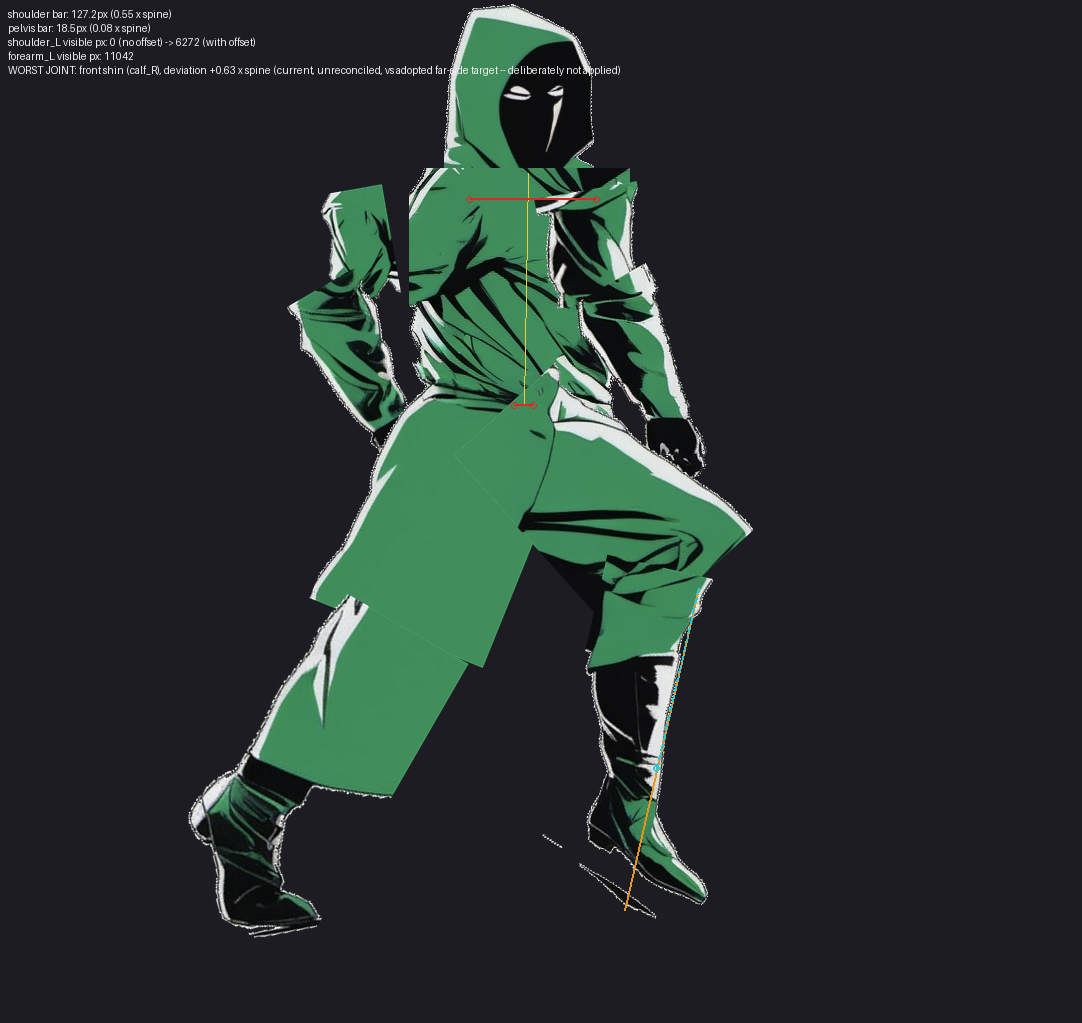
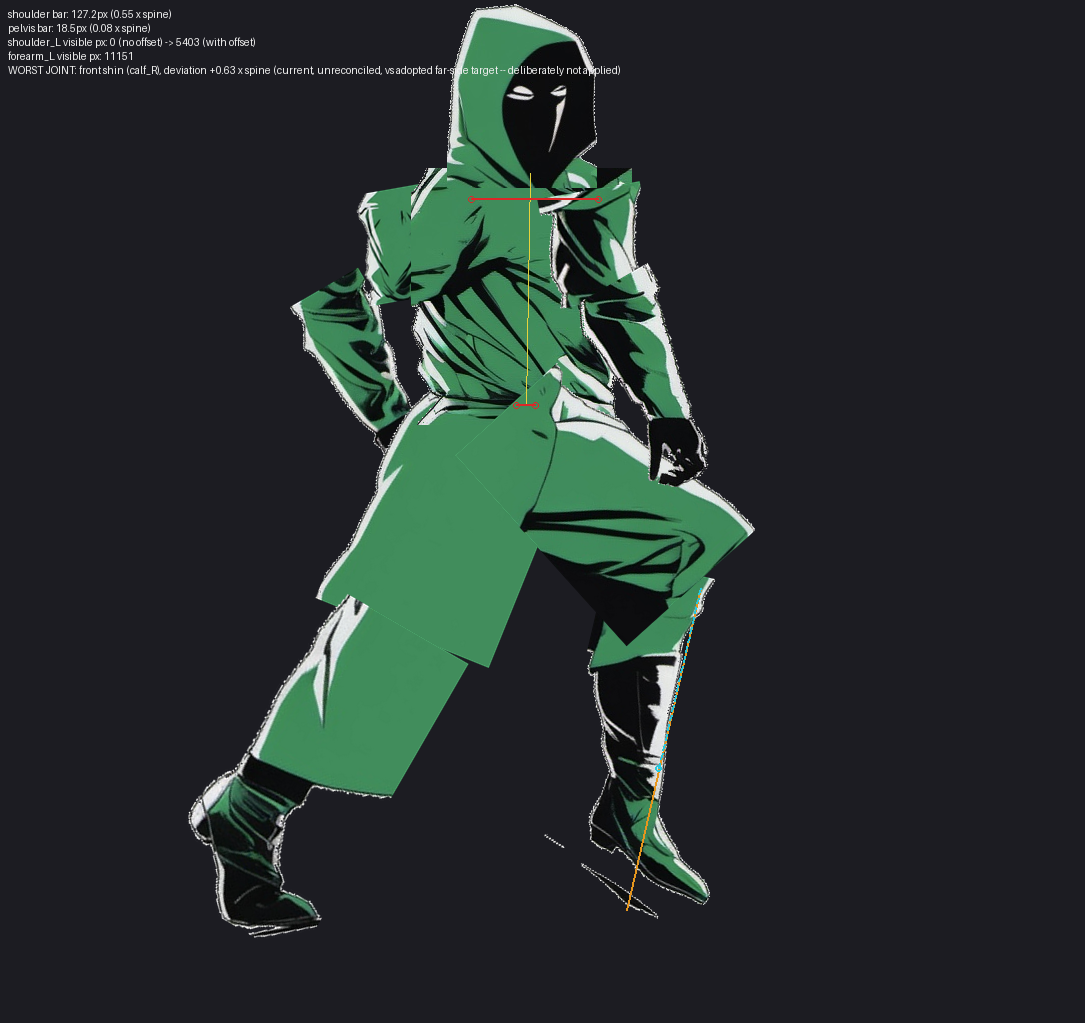
fix(character): T-0436 fix round -- chain-equalized lateral offsets, DennieSeth's z-order (T-0436)
Two defects @DennieSeth found in the reference-pose render, both fixed:

1. The far arm was shattered and detached from the torso. The prior round
   assigned a different lateral_offset_frac to each of shoulder_L/forearm_L/
   thigh_L/calf_L, so each limb chain's two halves slid apart by the
   difference between their own offsets. Replaced with one offset per chain
   (shoulder_L/forearm_L share -0.35, thigh_L/calf_L share -0.06), magnitude
   independently swept and bracketed via connected-component analysis rather
   than copied from the review comment.

2. The z-order was wrong. Published DennieSeth's exact front-to-back order
   (forearm_R 0 .. forearm_L 9) as the rig's default z, reversing torso/head
   and near-arm/near-leg from the prior round. docs/design/21-character-rig-
   bones.md's own layer-order section is marked replaced in place.

Regenerated both evidence images from the fixed rig. idle_cycle and
sitting_idle_cycle pick up the new z default (measured: ~2% of frame pixels
change); walk_cycle does not call rig_compositor.render_frames at all and is
unaffected. All 216 character-rig tests green, full suite unchanged noise
(1382 passed / 17 failed / 131 errors, pre-existing).

diff --git a/docs/design/23-canonical-rig.md b/docs/design/23-canonical-rig.md
@@ -24,6 +24,22 @@ report — confirmed via `GET /api/tasks/T-0435`). Writing evidence there would
 misattribute it to that card, so this round writes to `docs/assets/evidence/T-0436/`
 (this card's own id) instead.
 
+**Fix round, 2026-10-08T21:08 — two defects @DennieSeth found in the first render,
+both fixed this round; see §3c and §3d.**
+
+1. **The far arm was shattered and detached from the torso.** The first round's
+   `lateral_offset_axis.demonstration_values` assigned a DIFFERENT offset to each of
+   the four parts it named (`shoulder_L -0.50`, `forearm_L -0.20`, `thigh_L -0.08`,
+   `calf_L -0.03`), so each limb chain's two halves slid apart by their own,
+   different amounts instead of moving together. §3c replaces this with one offset
+   per chain, its magnitude independently swept and bracketed, not copied from the
+   human comment's own numbers.
+2. **The z-order was wrong.** @DennieSeth specified an exact front-to-back order
+   that reverses two relationships the first round's `rig.*.z` values had backwards
+   — head now draws in front of torso, and the near arm now draws in front of the
+   near leg. §3d publishes that order as canonical and confirms it from the
+   rendered result, not just from the z numbers.
+
 ## 0. What this card changes, and what it does not
 
 **In scope:** this document, `side_view_rig.json` v2, and a static render proving
@@ -50,12 +66,14 @@ Carried **verbatim, meaning unchanged**, from 21's own sections:
   where its pivot sits, which bones it covers. The CORE/EXTENDED split (6 parts vs 9
   — this rig's committed ten parts are the EXTENDED set, per `parts/side_view/
   README.md`) is unchanged.
-- **§6 Layer order** — back to front, right-facing: `leg.L → arm.L → torso → head →
-  leg.R → arm.R` (far limbs, then body, then near limbs). Still correct: z-order
-  decides which part wins a contested pixel, and nothing in this card changes that
-  decision for the existing ten parts' default z values (`side_view_rig.json`'s
-  `rig.*.z` is untouched). What this card adds (§4 below) is a SECOND, independent
-  axis — position, not draw order — for when z-order alone cannot reveal a limb.
+- **§6 Layer order** — NOT carried forward; REPLACED. 21-'s back-to-front order
+  (`leg.L → arm.L → torso → head → leg.R → arm.R`) was correct for the round this
+  document originally shipped in (its own `rig.*.z` values were untouched then). The
+  fix round (2026-10-08T21:08) changes this: @DennieSeth specified an exact
+  front-to-back order (§3d) that reverses two of 21-'s relationships — head now
+  draws in front of torso, and the near arm now draws in front of the near leg.
+  `side_view_rig.json`'s `rig.*.z` values are updated to match. §3d is the current
+  word on layer order; 21- §6 is marked replaced in place, not deleted.
 - **§9 Cutting/handoff checklist** — unchanged; still the checklist a newly cut part
   set is handed back against. This card cuts nothing (§6).
 - **§1 COCO-18 joint source of truth** and **§2 the bone tree** — unchanged. The
@@ -154,9 +172,95 @@ existing suite staying green (§7).
 
 **This is the fix for the far arm's 0-visible-pixel baseline.** A z/depth value only
 changes which part wins a contested pixel; it was already true before this card that
-`shoulder_L`'s z (5) beats the torso's (3), and the far arm was STILL invisible,
-because they occupied the *same x* — re-sorting never had anywhere to put it that
-the sort could reveal. `lateral_offset_frac` moves the pixel itself.
+`shoulder_L`'s z (then 5) beats the torso's (then 3), and the far arm was STILL
+invisible, because they occupied the *same x* — re-sorting never had anywhere to put
+it that the sort could reveal. `lateral_offset_frac` moves the pixel itself.
+
+**Fix round, 2026-10-08T21:08 — one offset per chain, not one per part.** The first
+round assigned `shoulder_L -0.50`, `forearm_L -0.20`, `thigh_L -0.08`, `calf_L
+-0.03` — four different numbers for two chains. `rig_compositor.build_placements`
+applies each part's OWN offset to the joint it owns, so the proximal and distal ends
+of one limb slid apart by the DIFFERENCE between their two offsets: 0.30×torso-width
+(66.3px) for the arm, 0.05×torso-width (11.1px) for the leg. The right arm, which
+carries no offset at all, is the control — 0.0px tear, confirming the mechanism
+itself (not the rig's other geometry) was the cause.
+
+`canonical_rig.lateral_offset_axis.demonstration_values` now equalizes each pair —
+`shoulder_L` and `forearm_L` share one value, `thigh_L` and `calf_L` share another —
+and that is necessary but **not** sufficient on its own: equalizing both arm parts
+at the original `-0.50` makes the silhouette *worse*, not better, because `-0.50`
+carries the sleeve clear of the torso entirely rather than resting against its edge.
+The magnitude needs its own justification, so `gen_reference_pose_evidence_T0436.py`
+was used to sweep it directly (4-connectivity component labelling over the
+composited alpha mask, same algorithm `char_gen.part_isolation._label_connected_
+components` already uses elsewhere in this package):
+
+```
+ arm chain offset   blobs ≥50px beyond baseline*   shoulder_L px   forearm_L px
+      -0.20                    0                       1432           4769
+      -0.35                    0                       5464          11042
+      -0.46                    0                       7156          13501
+      -0.48                    2  (chain tears)         ...            ...
+      -0.50                    2  (chain tears)         ...            ...
+
+ leg chain offset   blobs ≥50px beyond baseline*
+      -0.06                    0
+      -0.25                    0
+      -0.30                    1  (chain tears)
+```
+
+`*` **"baseline" here is one pre-existing, unrelated artifact**, not zero: even at
+`lateral_offset_frac={}` (no lateral push at all), the composited alpha mask already
+shows 2 components ≥50px beyond the main body — a 726px and a 73px fragment. Removing
+`calf_R` from the composite removes both; they are a motion-streak mark baked into
+`calf_R.png`'s own committed art (visible under the boot in a direct crop), present
+whenever `calf_R` renders at all, completely independent of this card's lateral-
+offset mechanism or this fix round's choice of magnitude. It is not re-cut or
+otherwise touched (§6/§9 forbid that), so it persists in the evidence render; the
+table above counts fragments *beyond* those two.
+
+**Chosen: `shoulder_L`/`forearm_L` = -0.35, `thigh_L`/`calf_L` = -0.06.** Both sit
+well inside their own safe bracket (arm: tears at -0.48, chosen value has a 0.13
+margin; leg: tears at -0.30, chosen value has a 0.24 margin) while the arm chain
+recovers 5464/11042 of a 7156/13501 ceiling — most of the achievable far-arm
+visibility, well past the point of diminishing returns (visibility keeps climbing
+only slowly past -0.35, while the tear risk grows). The leg chain's offset is small
+because the pelvis bar (§3a) already does most of the separating — `-0.06` is a
+modest additional push, not the primary mechanism for that chain.
+
+## 3d. Layer order — @DennieSeth's exact front-to-back order
+
+Front (closest to viewer) first, back last. `rig_compositor.render_frames` sorts
+`key=lambda p: -p.z` then composites in that order, so a LOWER z draws LAST and
+therefore wins every contested pixel — z 0 is frontmost, z 9 is backmost:
+
+| z | part | | z | part | |
+|---|---|---|---|---|---|
+| 0 | `forearm_R` | frontmost | 5 | `torso` | |
+| 1 | `shoulder_R` | | 6 | `calf_L` | |
+| 2 | `thigh_R` | | 7 | `thigh_L` | |
+| 3 | `calf_R` | | 8 | `shoulder_L` | |
+| 4 | `head` | | 9 | `forearm_L` | backmost |
+
+This is `side_view_rig.json`'s own `rig.*.z` for all ten parts — the SAME default
+every pose module reads unless it supplies its own `z_override` (§7 states exactly
+who does and the resulting pixel impact). Two reversals from 21-'s retired order,
+both exactly as @DennieSeth specified:
+
+1. **`head` now draws in front of `torso`** (z 4 vs 5) — the committed rig had
+   torso (3) in front of head (4) before this round.
+2. **The near arm now draws in front of the near leg** — `shoulder_R`/`forearm_R`
+   (z 0/1) in front of `thigh_R`/`calf_R` (z 2/3). The committed rig had the near leg
+   (z 0) in front of the near arm (z 1) before this round.
+
+**Confirmed from the rendered result, not asserted from the z numbers alone.**
+Compositing `forearm_R` alone and `thigh_R` alone (same canvas, same placements)
+finds 950 pixels where both are independently opaque — the contested region. In the
+real, full composite, 674 of those 950 pixels match `forearm_R`'s own rendered
+color exactly (the remainder are anti-aliased edge-blend pixels that do not match
+either part's color exactly — not a parity-sort conflict) and only 4 match
+`thigh_R`'s — `forearm_R` visibly wins essentially all of the contested region, as
+z 0 vs z 2 says it should.
 
 ## 4. The static render
 
@@ -169,12 +273,13 @@ prove"), with `shoulder_points`/`hip_points` set to the two canonical bar ends (
 (`canonical_rig.lateral_offset_axis.demonstration_values`):
 
 ```
-shoulder_L: -0.50   forearm_L: -0.20   thigh_L: -0.08   calf_L: -0.03
+shoulder_L: -0.35   forearm_L: -0.35   thigh_L: -0.06   calf_L: -0.06
 ```
 
-(fractions of torso width; chosen empirically so the far arm clears the torso's own
-silhouette — not re-derived from the reference image, which is not available this
-round).
+(fractions of torso width — ONE value per limb chain, fix round 2026-10-08T21:08;
+see §3c for why the first round's four different per-part values tore each chain
+apart, and for the sweep that derives this magnitude rather than just equalizing the
+pair).
 
 **Far-arm visibility, measured directly from the composited placements**
 (`visible_pixel_count` in `tests/test_reference_pose_render_T0436.py` — a pixel is
@@ -184,20 +289,35 @@ count):
 
 | | without `lateral_offset_frac` | with it |
 |---|---|---|
-| `shoulder_L` | **0** | **6272** |
-| `forearm_L` | **0** | **11042** |
+| `shoulder_L` | **0** | **5403** |
+| `forearm_L` | **0** | **11151** |
+| `shoulder_L` + `forearm_L` | **0** | **16554** |
 
 Confirms the card's own premise (0 visible pixels at baseline) and that the lateral
 offset — not the two-point bar attach alone — is what fixes it: `shoulder_L` is
 still 0 with the bar-end attach active and the offset zeroed out.
 
-Evidence, committed:
+**Connected-component count on the regenerated evidence render.** 4-connectivity
+labelling of the composited image (`reference_pose_render.png`, 1085×1023) finds 3
+components ≥50px: the main silhouette (226946px) and the two pre-existing `calf_R`
+motion-streak fragments described in §3c (670px, 59px — present at `lateral_offset_
+frac={}` too, i.e. independent of this card's chain offsets, confirmed by removing
+`calf_R` from the composite). **No new fragment is introduced by equalizing and
+sizing the chain offsets** — the figure's own silhouette (everything except the
+pre-existing, untouched `calf_R` art detail) is one connected piece, and `shoulder_L`
++ `forearm_L` together own 16554 of its pixels, confirming the far arm is both
+attached and visible in the same render.
 
-- `docs/assets/evidence/T-0436/reference_pose_render.png` — the composited pose.
-- `docs/assets/evidence/T-0436/rig_vs_reference_overlay.png` — the same render with
-  the shoulder bar (red), pelvis bar (red), spine (yellow) drawn on top, plus the
-  front shin's actual-vs-adopted-target length (orange solid vs cyan dashed, §5) and
-  a caption restating the pixel counts above.
+Evidence, regenerated this round from the fixed rig and committed:
+
+- `docs/assets/evidence/T-0436/reference_pose_render.png` (1085×1023) — the
+  composited pose, now with the far arm attached to its own shoulder (§3c) and the
+  new layer order (§3d — the hood draws over the torso collar, and the near fist
+  sits in front of the near thigh).
+- `docs/assets/evidence/T-0436/rig_vs_reference_overlay.png` (1085×1023) — the same
+  render with the shoulder bar (red), pelvis bar (red), spine (yellow) drawn on top,
+  plus the front shin's actual-vs-adopted-target length (orange solid vs cyan
+  dashed, §5) and a caption restating the pixel counts above.
 
 ### Per-joint deviation
 
@@ -295,14 +415,41 @@ is picked up by the same code path, not a second one.
 
 ## 7. Animation impact — what changes, and by how much
 
-**Mechanism-level change (§3c): none.** `shoulder_points`, `hip_points`,
-`lateral_offset_frac` all default to `None`; no pre-existing pose module passes
-them. Confirmed both by direct test (`TestOptInCompositorHooks`) and by the full
-existing suite: every test in `test_walk_cycle.py`, `test_idle_cycle.py`,
-`test_sitting_idle_cycle.py`, `test_pose_rig_master_sheet_T0351.py`,
-`test_pose_rig_T0249.py`, `test_pose_rig_walk_T0259.py` and
-`test_pose_rig_profile_T0272.py` — 192 tests, unchanged — stays green after this
-round's changes, with no edits to any of those test files.
+**`shoulder_points`/`hip_points`/`lateral_offset_frac` (§3c): none.** All three
+default to `None`; no pre-existing pose module passes them. Confirmed both by direct
+test (`TestOptInCompositorHooks`) and by the full existing suite: every test in
+`test_walk_cycle.py`, `test_idle_cycle.py`, `test_sitting_idle_cycle.py`,
+`test_pose_rig_master_sheet_T0351.py`, `test_pose_rig_T0249.py`,
+`test_pose_rig_walk_T0259.py` and `test_pose_rig_profile_T0272.py` — 192 tests,
+unchanged — stays green after this round's changes, with no edits to any of those
+test files.
+
+**The z-order (§3d): yes for `idle_cycle` and `sitting_idle_cycle`, not for
+`walk_cycle`, and here is the exact size of it.** Unlike the lateral-offset axis,
+`rig.*.z` is not opt-in — it is the one shared default every part's `Placement`
+carries unless a caller supplies its own `z_override`. `walk_cycle.py` does not call
+`rig_compositor.render_frames` at all (it only supplies the `bone_length`/
+`distal_joint` primitives `rig_compositor` imports), so it is untouched by this
+change — confirmed by grep, no `render_frames` call anywhere in that module or its
+own test file. `idle_cycle.py` supplies no `z_override`, so it is fully exposed to
+the new z values; `sitting_idle_cycle.py` overrides only `thigh_R`/`thigh_L`
+(`CROUCH_Z_OVERRIDE = {"thigh_R": 3.5, "thigh_L": 3.6}`), so its other eight parts
+pick up the new default too. Measured directly (render each at frame 0 with the new
+rig, then again forcing the old z values via `z_override`, and count changed
+pixels):
+
+| pose | changed px | frame size | fraction |
+|---|---|---|---|
+| `idle_cycle` | 9,379 | 486×986 (479,196px) | ≈2.0% |
+| `sitting_idle_cycle` | 17,842 | 938×999 (937,062px) | ≈1.9% |
+
+Both existing suites (`test_idle_cycle.py`, `test_sitting_idle_cycle.py`) stay green
+— neither asserts exact per-pixel output tied to the old draw order, only geometry
+(contact points, bounding bands, determinism) that this change does not touch. This
+is expected, not a regression, per the same framing §0 and the shoulder_L paragraph
+below already establish for the bone-length fix: the follow-on cards that re-derive
+each animation's own pose will see this new, corrected draw order when they do, and
+re-tuning either animation for it is explicitly their business, not this round's.
 
 **`shoulder_L`'s bone-length fix (§6): yes, and here is the exact size of it.**
 Every pose that composites `shoulder_L`/`forearm_L` (all three: `walk_cycle`,

diff --git a/docs/design/21-character-rig-bones.md b/docs/design/21-character-rig-bones.md
@@ -4,10 +4,17 @@
 > rig authority. This document's single-hip/single-shoulder attach and flat-side-view
 > framing are contradicted by @DennieSeth's canonical skeleton reference on
 > structure, proportion and projection — see 23- §0–§3. §1 (COCO-18), §2 (the bone
-> tree), §4 (pivot convention), §6 (layer order) and §9 (cutting checklist) are
-> carried forward **unchanged** into 23-'s own §1; this document is kept, not
-> deleted, as the record of the bone tree's own derivation. Do not treat anything
-> below as the current word on shoulder/hip attach geometry.
+> tree), §4 (pivot convention) and §9 (cutting checklist) are carried forward
+> **unchanged** into 23-'s own §1; this document is kept, not deleted, as the record
+> of the bone tree's own derivation. Do not treat anything below as the current word
+> on shoulder/hip attach geometry.
+>
+> **§6 (layer order) is REPLACED, not carried forward — fix round, 2026-10-08T21:08.**
+> The order below (`leg.L → arm.L → torso → head → leg.R → arm.R`) is superseded by
+> @DennieSeth's own front-to-back order in 23- §3d, which reverses two of this
+> section's relationships: head now draws in front of torso (not behind it), and the
+> near arm now draws in front of the near leg (not behind it). Do not use the order
+> below for any part composited through the committed rig's own `rig.*.z` values.
 
 **Status:** superseded (see above) — formerly authoritative. This is the reference every
 character's cut parts must match, for every character, not just the player.
@@ -142,9 +149,13 @@ elbow bend. It does for a walk.
 6. Name files `<part>.<side>.png` for sided parts, `<part>.png` otherwise: `head.png`,
    `torso.png`, `arm.R.png`, `leg.L.png`.
 
-## 6. Layer order
+## 6. Layer order — REPLACED, see `docs/design/23-canonical-rig.md` §3d
 
-Back to front, for a right-facing side view:
+> **Superseded, T-0436 fix round (2026-10-08T21:08).** The order below is no longer
+> the rig's layer order. See the file banner above and 23- §3d for the order that
+> replaces it and the reasoning (@DennieSeth's own front-to-back spec).
+
+Back to front, for a right-facing side view (historical, no longer applied):
 
 ```
 leg.L  →  arm.L  →  torso  →  head  →  leg.R  →  arm.R
